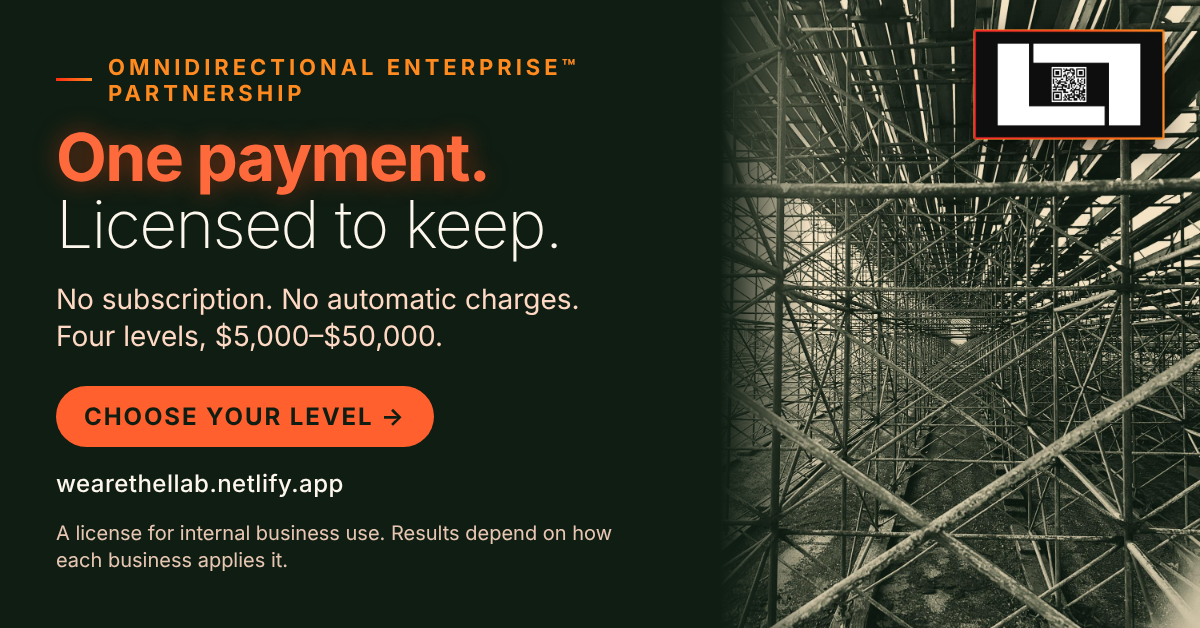
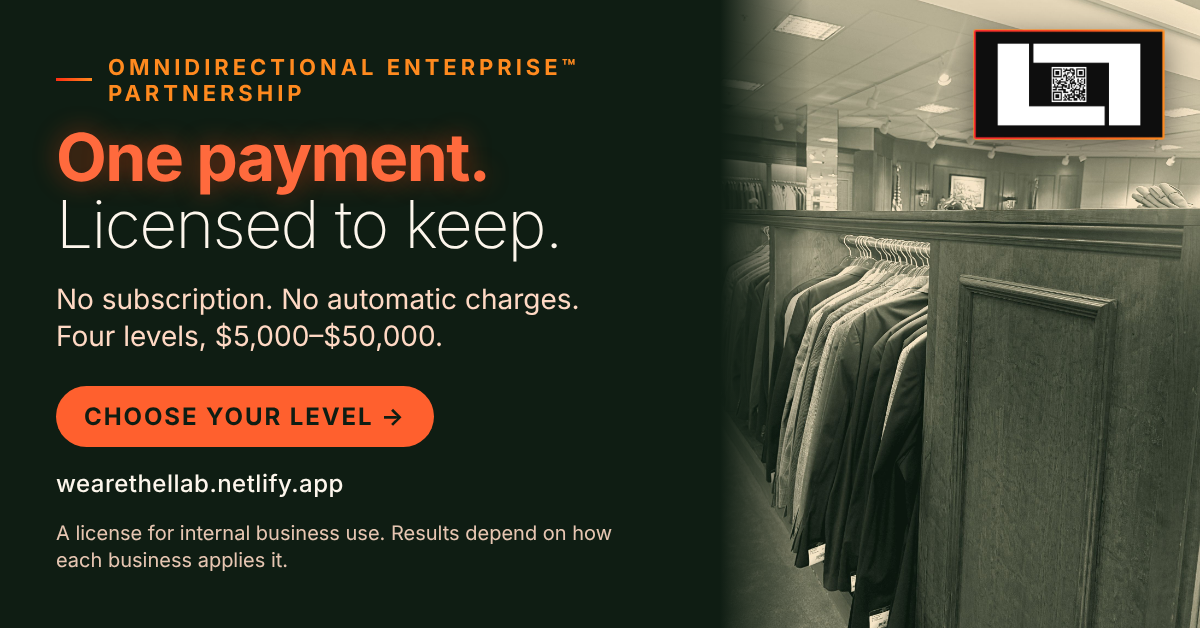
Photographs as a system: add-photo tool, IV Phases in four photographs, phase ads
- scripts/add-photo.mjs: crop / blur third-party marks / duotone / resize / manifest
- New photos: track (Phase IV), racks (Phase III), booth (Phase I, logos blurred)
- Home + Partnership: phase cards become photograph tiles linking to the tiers;
  Home mission closes over the railroad; Founders/Journal heroes and Atelier image
- Ads: re-shot 02/05/08, new phase ads 09-11 (11 concepts)
- Docs: photography strategy, image-selection rules, add-a-photo workflow
- SW cache v11

Claude-Session: https://claude.ai/code/session_01CJiPCp3b9wqRwJ31gambQ1

Changed region(s): [[0.6167, 0.0, 1.0, 1.0]]

diff --git a/index.html b/index.html
@@ -221,27 +221,23 @@
       <h2 class="headline" style="margin-top:1.5rem;">Practice <strong>Omnidirectional Enterprise™.</strong></h2>
       <p class="subhead" style="margin-top:1.5rem;">The Co.LLab™ Partnership Program provides businesses with a structured opportunity to practice Omnidirectional Enterprise™ by connecting proprietary intellectual property, products, leadership infrastructure, and cross-sector capabilities to unlock commercial opportunities, strengthen market positioning, and develop new pathways for innovation, investment, and enterprise growth.</p>
       <p class="eyebrow" style="margin-top:2.5rem;">The IV Phases™ — your legacy, in four phases</p>
-      <div class="grid grid-4" style="margin-top:2.5rem;">
-        <div class="card">
-          <span class="num">I · Foundations</span>
-          <h3>Define your legacy.</h3>
-          <p>Who you are and what you stand on.</p>
-        </div>
-        <div class="card">
-          <span class="num">II · Infrastructure Planning &amp; Management</span>
-          <h3>Plan your legacy.</h3>
-          <p>Where it's going and how it connects.</p>
-        </div>
-        <div class="card">
-          <span class="num">III · Internal Operating Systems</span>
-          <h3>Live your legacy.</h3>
-          <p>In every decision, every day.</p>
-        </div>
-        <div class="card">
-          <span class="num">IV · Preservation</span>
-          <h3>Pass it on.</h3>
-          <p>So it outlasts you.</p>
-        </div>
+      <div class="tiles">
+        <a class="tile" href="pages/partnership.html#tiers">
+          <img src="assets/img/editorial/booth.jpg" alt="A rustic wood-slat booth with an enamel AMERICAN sign, a high table and stools, lit from behind." width="1932" height="2576" loading="lazy" style="object-position: 50% 58%;" />
+          <span class="tile-label"><span class="num">I · Foundations</span><strong>Define your legacy.</strong><span class="tile-desc">Who you are and what you stand on.</span><em>See the tier</em></span>
+        </a>
+        <a class="tile" href="pages/partnership.html#tiers">
+          <img src="assets/img/editorial/scaffolding.jpg" alt="Black-and-white view down a long corridor of steel scaffolding." width="1320" height="1649" loading="lazy" style="object-position: 50% 40%;" />
+          <span class="tile-label"><span class="num">II · Infrastructure Planning &amp; Management</span><strong>Plan your legacy.</strong><span class="tile-desc">Where it's going and how it connects.</span><em>See the tier</em></span>
+        </a>
+        <a class="tile" href="pages/partnership.html#tiers">
+          <img src="assets/img/editorial/racks.jpg" alt="Rows of tailored jackets on a wood-paneled rack in a quiet menswear store." width="1932" height="2576" loading="lazy" style="object-position: 40% 62%;" />
+          <span class="tile-label"><span class="num">III · Internal Operating Systems</span><strong>Live your legacy.</strong><span class="tile-desc">In every decision, every day.</span><em>See the tier</em></span>
+        </a>
+        <a class="tile" href="pages/partnership.html#tiers">
+          <img src="assets/img/editorial/track.jpg" alt="A single railroad track running straight to the horizon between green grass and a cornfield under a wide blue sky." width="1420" height="2048" loading="lazy" style="object-position: 50% 56%;" />
+          <span class="tile-label"><span class="num">IV · Preservation</span><strong>Pass it on.</strong><span class="tile-desc">So it outlasts you.</span><em>See the tier</em></span>
+        </a>
       </div>
       <p class="subhead" style="margin-top:1.5rem;">Partners purchase a license to access and apply Co.LLab IP™ — not ownership of it. Results depend on how each business applies it; no investment, revenue, or exclusivity is promised.</p>
       <div class="hero-cta-row"><a href="pages/think.html#model" class="pill">See the full model <span class="arrow">→</span></a></div>
@@ -428,19 +424,18 @@
 
   <div class="monogram" aria-hidden="true"><img src="assets/img/brand/mark-white.png" alt="" width="440" height="265" loading="lazy" /></div>
 
-  <section>
-    <div class="wrap">
-      <div>
-        <div>
-          <p class="eyebrow" data-field="mission_eyebrow">Our mission</p>
-          <p class="headline" data-field="mission_quote" style="margin-top:1.5rem;">
-            To build leadership infrastructure that empowers people and organizations to transform
-            <strong>human potential</strong> into performance, sustainable enterprise value, and lasting legacy.
-          </p>
-        </div>
+  <figure class="lookbook lookbook--scrim" style="--focus: 50% 56%;">
+    <img src="assets/img/editorial/track.jpg" width="1420" height="2048" loading="lazy" alt="A single railroad track running straight to the horizon between green grass and a cornfield under a wide blue sky." />
+    <figcaption>
+      <div class="wrap">
+        <p class="eyebrow" data-field="mission_eyebrow">Our mission</p>
+        <p class="headline" data-field="mission_quote" style="margin-top:1rem;">
+          To build leadership infrastructure that empowers people and organizations to transform
+          <strong>human potential</strong> into performance, sustainable enterprise value, and lasting legacy.
+        </p>
       </div>
-    </div>
-  </section>
+    </figcaption>
+  </figure>
 
   <hr class="hairline" />
 

diff --git a/pages/partnership.html b/pages/partnership.html
@@ -199,27 +199,23 @@
     <div class="wrap">
       <p class="eyebrow">How partners drive the ecosystem</p>
       <h2 class="headline" style="margin-top:1.5rem;">Your legacy, <strong>in four phases.</strong></h2>
-      <div class="grid grid-4" style="margin-top:2.5rem;">
-        <div class="card">
-          <span class="num">I · Foundations</span>
-          <h3>Define your legacy.</h3>
-          <p>Who you are and what you stand on.</p>
-        </div>
-        <div class="card">
-          <span class="num">II · Infrastructure Planning &amp; Management</span>
-          <h3>Plan your legacy.</h3>
-          <p>Where it's going and how it connects.</p>
-        </div>
-        <div class="card">
-          <span class="num">III · Internal Operating Systems</span>
-          <h3>Live your legacy.</h3>
-          <p>In every decision, every day.</p>
-        </div>
-        <div class="card">
-          <span class="num">IV · Preservation</span>
-          <h3>Pass it on.</h3>
-          <p>So it outlasts you.</p>
-        </div>
+      <div class="tiles">
+        <a class="tile" href="#tiers">
+          <img src="../assets/img/editorial/booth.jpg" alt="A rustic wood-slat booth with an enamel AMERICAN sign, a high table and stools, lit from behind." width="1932" height="2576" loading="lazy" style="object-position: 50% 58%;" />
+          <span class="tile-label"><span class="num">I · Foundations</span><strong>Define your legacy.</strong><span class="tile-desc">Who you are and what you stand on.</span><em>See the tier</em></span>
+        </a>
+        <a class="tile" href="#tiers">
+          <img src="../assets/img/editorial/scaffolding.jpg" alt="Black-and-white view down a long corridor of steel scaffolding." width="1320" height="1649" loading="lazy" style="object-position: 50% 40%;" />
+          <span class="tile-label"><span class="num">II · Infrastructure Planning &amp; Management</span><strong>Plan your legacy.</strong><span class="tile-desc">Where it's going and how it connects.</span><em>See the tier</em></span>
+        </a>
+        <a class="tile" href="#tiers">
+          <img src="../assets/img/editorial/racks.jpg" alt="Rows of tailored jackets on a wood-paneled rack in a quiet menswear store." width="1932" height="2576" loading="lazy" style="object-position: 40% 62%;" />
+          <span class="tile-label"><span class="num">III · Internal Operating Systems</span><strong>Live your legacy.</strong><span class="tile-desc">In every decision, every day.</span><em>See the tier</em></span>
+        </a>
+        <a class="tile" href="#tiers">
+          <img src="../assets/img/editorial/track.jpg" alt="A single railroad track running straight to the horizon between green grass and a cornfield under a wide blue sky." width="1420" height="2048" loading="lazy" style="object-position: 50% 56%;" />
+          <span class="tile-label"><span class="num">IV · Preservation</span><strong>Pass it on.</strong><span class="tile-desc">So it outlasts you.</span><em>See the tier</em></span>
+        </a>
       </div>
       <p class="subhead" style="margin-top:1.5rem;">Partners use the IP, share what they learn each quarter, and make it stronger. Partner revenue funds new Co.LLab IP™, creator work, and community programs, and every new release returns to each partner while their membership is active.</p>
       <p class="subhead" style="margin-top:1rem;"><span class="tag">Coming soon</span> <strong>Apprentice seats:</strong> partners sponsor people outside their company, like creators, nonprofit leaders, and people starting out.</p>

diff --git a/pages/atelier.html b/pages/atelier.html
@@ -145,6 +145,16 @@
       </div>
     </div>
   </section>
+
+  <figure class="lookbook lookbook--scrim" style="--focus: 40% 62%;">
+    <img src="../assets/img/editorial/racks.jpg" width="1932" height="2576" loading="lazy" alt="Rows of tailored jackets on a wood-paneled rack in a quiet menswear store." />
+    <figcaption>
+      <div class="wrap">
+        <p class="eyebrow">.LLab Atelier™ · Design, Products &amp; Creative Enterprise</p>
+        <p class="headline">Where infrastructure thinking meets craft, material, and wearable form.</p>
+      </div>
+    </figcaption>
+  </figure>
 <!-- ps-block -->
   <hr class="hairline" />
   <section class="ps-block">

diff --git a/pages/founders.html b/pages/founders.html
@@ -117,7 +117,7 @@
 
 <main>
 
-  <section class="hero hero--photo" style="padding-bottom: clamp(2rem, 5vw, 3rem); background-image: url('../assets/img/photography/craft.jpg'); background-position: center 30%;">
+  <section class="hero hero--photo hero--lookbook" style="padding-bottom: clamp(2rem, 5vw, 3rem); background-image: url('../assets/img/editorial/booth.jpg'); background-position: 50% 40%;">
     <div class="glow"></div>
     <div class="wrap" style="position:relative;">
       <p class="eyebrow" data-field="eyebrow">Founders Organization · BUILD</p>

diff --git a/pages/journal.html b/pages/journal.html
@@ -117,7 +117,7 @@
 
 <main>
 
-  <section class="hero hero--photo" style="padding-bottom: clamp(2rem, 5vw, 3rem); background-image: url('../assets/img/photography/the-path.jpg'); background-position: center 60%;">
+  <section class="hero hero--photo hero--lookbook" style="padding-bottom: clamp(2rem, 5vw, 3rem); background-image: url('../assets/img/editorial/track.jpg'); background-position: 50% 56%;">
     <div class="glow"></div>
     <div class="wrap" style="position:relative;">
       <p class="eyebrow" data-field="eyebrow">The .LLab Journal™</p>

diff --git a/test/marketing-facts.test.js b/test/marketing-facts.test.js
@@ -42,7 +42,7 @@ test('generated ad copy states the registry price range and seat counts', () => 
   assert.ok(all.includes(`${lo}–${hi}`), 'price range in an ad');
   assert.ok(all.includes('Seats for 1, 3, 5, or 10'), 'seat counts in an ad');
   assert.ok(!/guarantee|return on|roi|limited|hurry|last chance/i.test(all), 'no invented scarcity or claims');
-  assert.equal(ads.length, 8);
+  assert.equal(ads.length, 11);
 });
 
 function tokens(css) {

diff --git a/sw.js b/sw.js
@@ -3,7 +3,7 @@
 // static assets (HTML/CSS/JS/images) and never touches anything that must
 // always be fresh: Netlify Functions (auth, entitlements, downloads),
 // /content/*.json (CMS-edited copy and pricing), or /admin.
-const CACHE_VERSION = 'collab-shell-v10';
+const CACHE_VERSION = 'collab-shell-v11';
 
 const SHELL_ASSETS = [
   '/pages/account.html',

diff --git a/css/base.css b/css/base.css
@@ -1826,3 +1826,7 @@ table th, table td { line-height: 1.45; }
   font-weight: 700;
 }
 .tag { border-color: #fff; }
+
+/* caption headlines on photographs: one size, readable measure */
+.lookbook figcaption .headline { font-size: clamp(1.5rem, 2.8vw, 2.4rem); line-height: 1.15; }
+.lookbook--scrim figcaption .headline { max-width: 28ch; }

diff --git a/docs/marketing-strategy.md b/docs/marketing-strategy.md
@@ -63,8 +63,11 @@ Run `node scripts/build-ads.mjs` to render `marketing/ads/*.png` (4:5 feed and 1
 | 06 | **Start free.** Build your legacy. | Foot-in-the-door, reciprocity | Cold to warm | Home #llab |
 | 07 | **Nobody builds alone.** | Unity, belonging | Cold | Think #model |
 | 08 | Your legacy. **Your whole team.** | Status, internal buy-in | Hot | Partnership #included |
+| 09 | **Define** your legacy. | Identity (Phase I) | Warm | Partnership #tiers |
+| 10 | **Plan** your legacy. | Structure (Phase II) | Warm | Partnership #tiers |
+| 11 | **Live** your legacy. | Daily practice (Phase III) | Warm | Partnership #tiers |
 
-**Sequence.** Cold: 01, 04, 07. Warm: 03, 06. Hot: 05, 08, 02. Cap frequency so cold ads don't repeat past about 6 impressions per person.
+**Sequence.** Cold: 01, 04, 07. Warm: 03, 06, 09–11. Hot: 05, 08, 02. Cap frequency so cold ads don't repeat past about 6 impressions per person.
 
 **Channels.** LinkedIn for owners and executives (04 and 01 first). Meta for lookalike audiences. Search for intent terms such as business succession, legacy planning and leadership infrastructure.
 
@@ -84,7 +87,44 @@ Measure click-through, landing-page-to-free-join rate, free-to-paid rate and tie
 - **Endorsements.** Add any testimonial only when it is real, with permission, and with FTC-compliant disclosure.
 - **Accessibility.** Text stays at or above WCAG AA contrast. A regression test guards the colour tokens.
 
-## 6. Adding to the system
+## 6. Photography as strategy: The IV Phases™ in four photographs
 
-- **New photo:** bake it to the site duotone (see `PROJECT_CHECKPOINT.md`), save it in `assets/img/editorial/`, then use it as a `.lookbook` or `.tile`. For an ad, add an entry to `ADS` in `scripts/build-ads.mjs`.
+Real, unstaged photographs read as honest, and honesty is what a buyer spending $5,000–$50,000 is checking for. Stock imagery would undercut that. Each phase has one signature photograph, and the same pictures run on the site and in the ads.
+
+| Phase | Photograph | What it signals | Psychology and sociology |
+|---|---|---|---|
+| **I · Foundations** (Define) | Wood-slat booth, enamel AMERICAN sign, high table and stools | Identity, rootedness, a place people gather. The table and stools are the Partnership **seats**. | Place identity and in-group belonging for heartland and small-business owners. Concrete imagery is recalled better than abstract claims. |
+| **II · Planning** (Plan) | Steel scaffolding corridor | Structure going up before the building exists. | Makes an abstract service tangible. |
+| **III · Operating Systems** (Live) | Tailored jackets on a wood-paneled rack | Order, standards, fit: how things are kept every day. The luxury-retail feel. | Fluency and quality cues: ordered scenes signal competence. The "built around the person" line from the site reads as tailoring. |
+| **IV · Preservation** (Pass it on) | One railroad track to the horizon | The path is already laid and continues past you. | Symbolic immortality and generativity: the picture of "so it outlasts you". It carries the emotional close without death imagery. |
+
+**Where they run**
+- **Home:** the four phases are photograph tiles that link to the Partnership levels (Home #solution). The mission closes over the railroad.
+- **Partnership page:** the same four tiles.
+- **Founders page hero:** the booth, for community and Main Street.
+- **Atelier hero:** the racks.
+- **Journal hero:** the railroad ("Ideas, before infrastructure").
+- **Ads:** 02 (railroad), 05 (racks, with price tags visible), 08 (booth seats), and 09–11 (one per phase).
+
+**Picking future photographs.** Choose one that:
+1. Has one clear subject and room for text.
+2. Is human-scale and real.
+3. Maps to a phase or a lever above.
+4. Contains no readable third-party brands. The booth photo had Budweiser and Sturgis logos, which are blurred in the file.
+5. Has consent if people are identifiable (the concert photo is flagged for this in the manifest).
+
+**Not used.** The blue light-streak frame is one frame of a logo animation: low resolution, blown out, with a partial "WE". It would work as the first second of a video ad, not as a still.
+
+## 7. Adding to the system
+
+**Adding a photograph (one command):**
+
+    node scripts/add-photo.mjs <file> <slug> --phase 1-4 --alt "describe it" --focus "50% 55%"
+    # optional: --crop x,y,w,h   --blur "x,y,w,h;x,y,w,h"   --keep-color   --note "…"
+
+It crops, blurs any third-party marks you list, bakes the site duotone, resizes, saves to `assets/img/editorial/<slug>.jpg` and records it in `assets/img/editorial/manifest.json`. Then:
+- **On a page:** use `<figure class="lookbook">` or a `.tile` (copy an existing one).
+- **In an ad:** add the slug to `ADS` in `scripts/build-ads.mjs` and run `node scripts/build-ads.mjs`.
+- **Or** send the photos in chat with a note on where each belongs, and it's done for you.
+
 - **New ad:** pull the hook and support line from approved copy. Pair every threat with an action.

diff --git a/PROJECT_CHECKPOINT.md b/PROJECT_CHECKPOINT.md
@@ -84,6 +84,19 @@ Branch: `claude/collab-website-architecture-l0haw2`. PR #40 (unified nav) is mer
   2. Use it as a `<figure class="lookbook">` or a `.tile`.
   3. Give it descriptive alt text.
 
+## Stage 6: Photographs as a system
+- **Tool:** `node scripts/add-photo.mjs <file> <slug> --phase N --alt "…"` (crop, blur third-party marks, duotone, resize, manifest).
+- **Library:** `assets/img/editorial/` (+ `manifest.json`): scaffolding, stage, storefront, track, racks, booth.
+- **The IV Phases™ in four photographs:** booth (I), scaffolding (II), racks (III), track (IV).
+- **Placements:**
+  - Phase tiles on Home and Partnerships.
+  - Mission over the track.
+  - Founders hero: booth.
+  - Atelier hero: racks.
+  - Journal hero: track.
+- **Ads:** 11 concepts (02, 05 and 08 re-shot; 09–11 are phase ads).
+- **Not used:** the blue animation frame. Strategy: `docs/marketing-strategy.md` §6–7.
+
 ## Verification
 - `npm test`: 128/128 pass.
 - Internal links: none broken.
